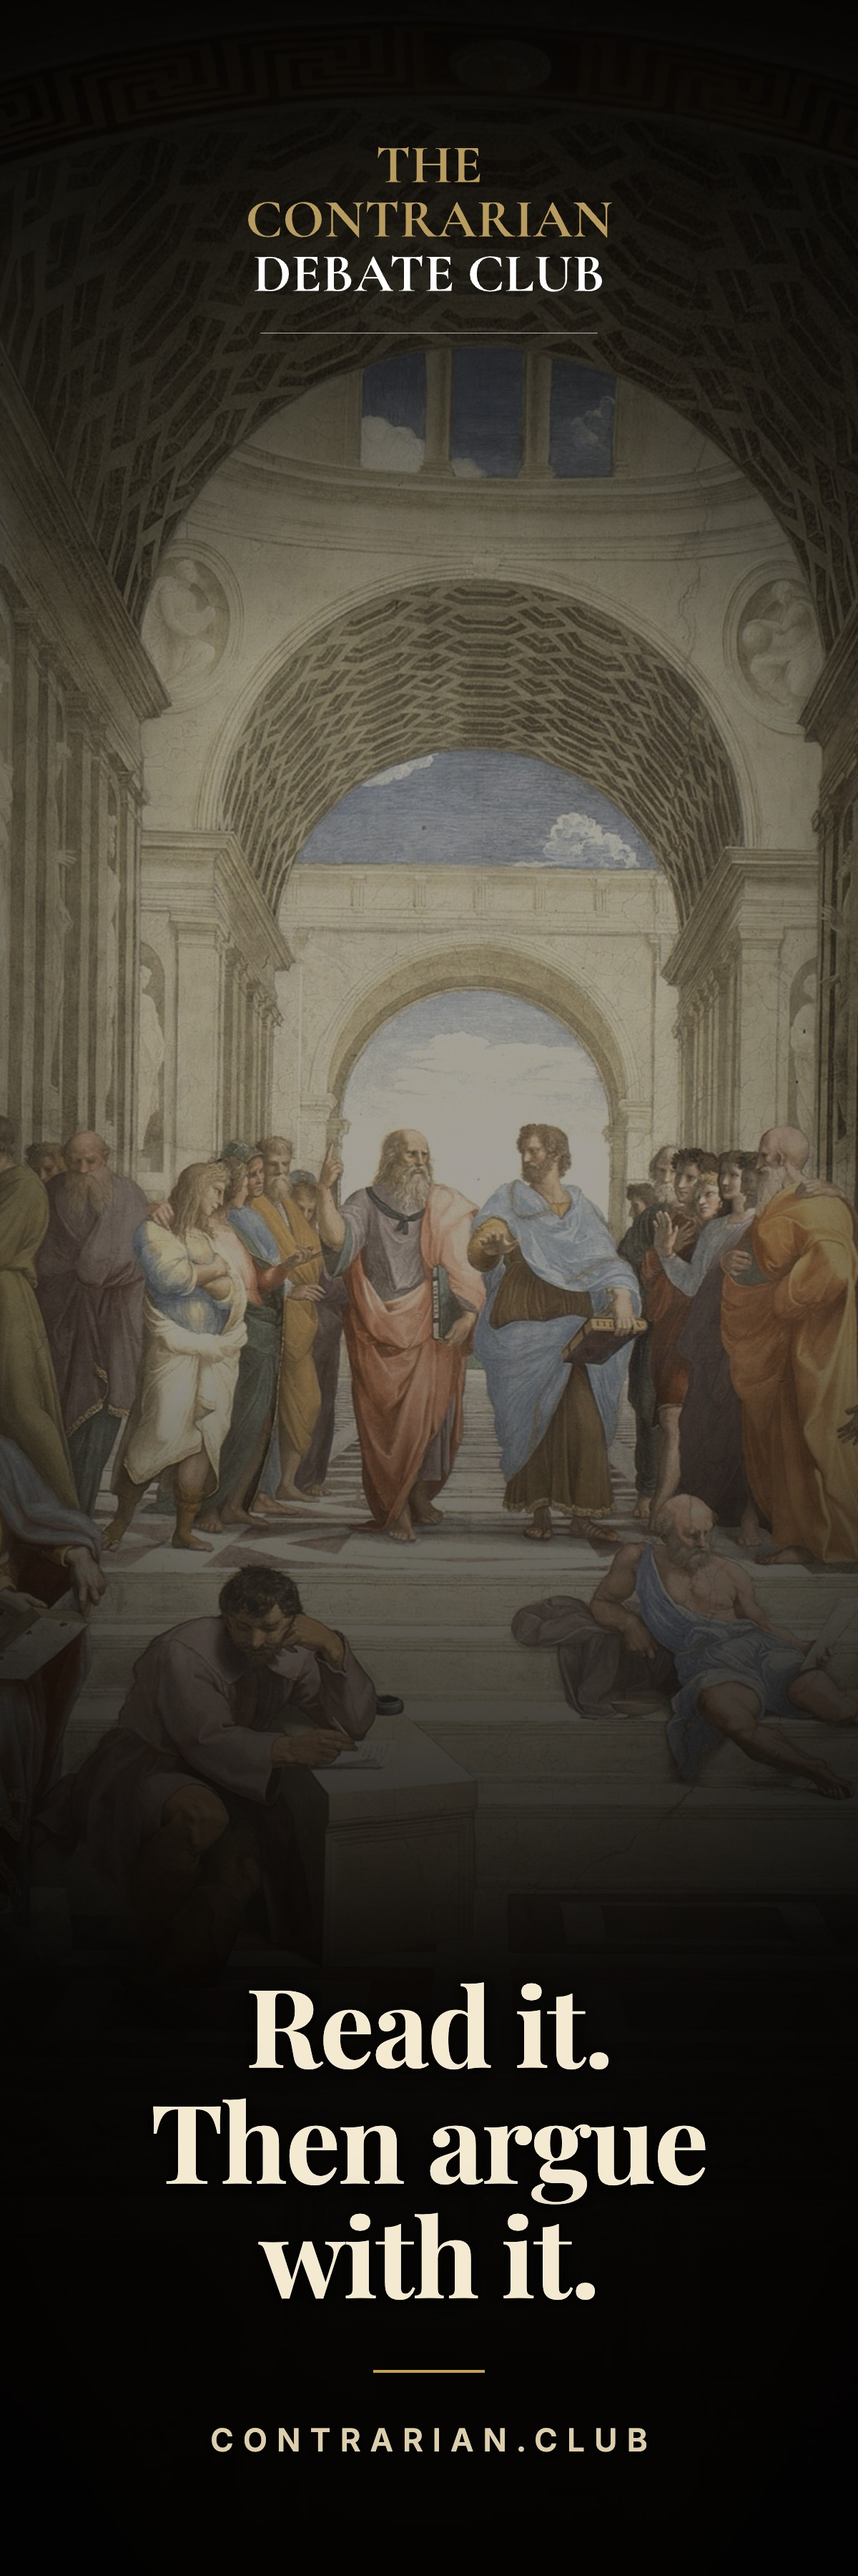
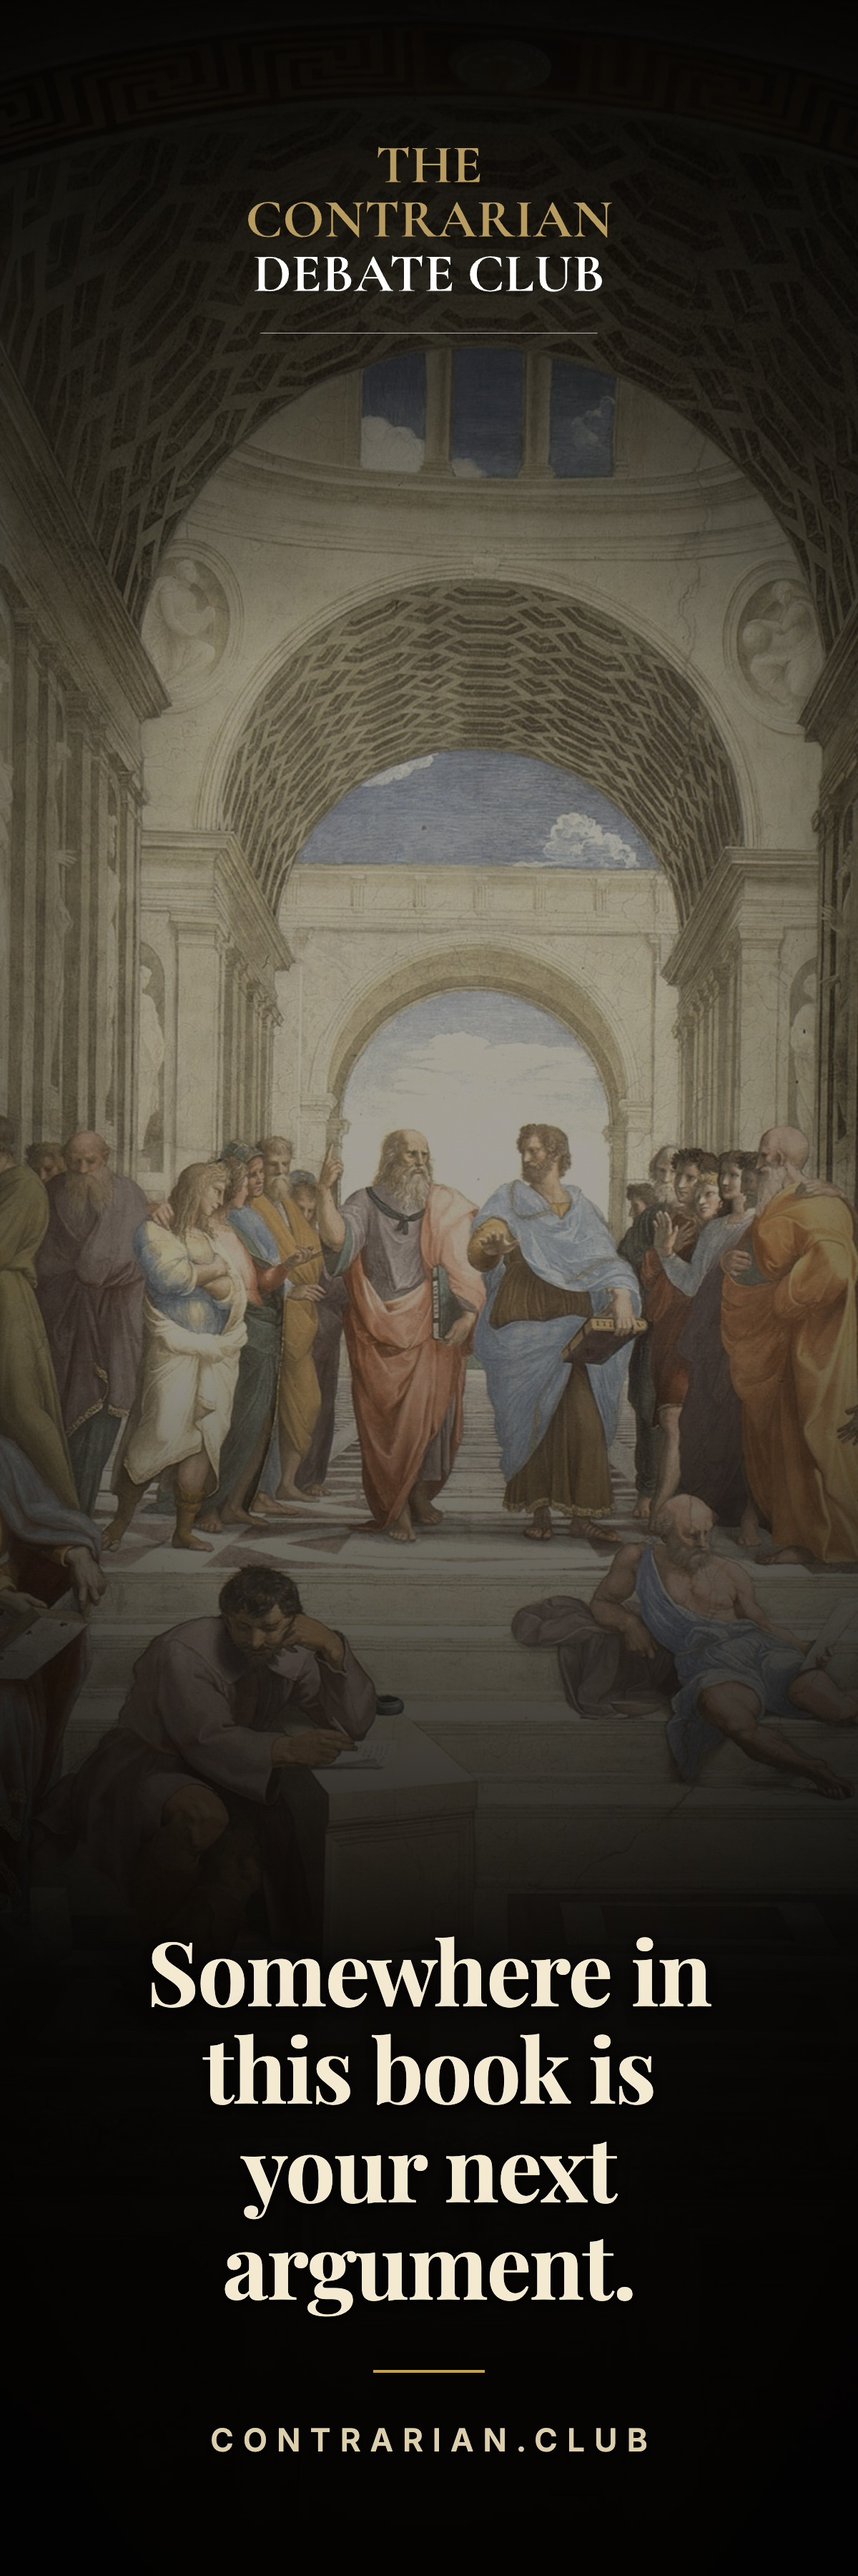
fix(posters): point the column bookmark's line at the book in hand

Changed region(s): [[0.1542, 0.7467, 0.8325, 0.9022]]

diff --git a/posters/works/2026-08-22-bookmark/slides.tsx b/posters/works/2026-08-22-bookmark/slides.tsx
@@ -107,7 +107,7 @@ const ADDRESS = "contrarian.club";
 // from across a table.
 // ---------------------------------------------------------------------------
 
-export function Column({ art }: { art: Art }) {
+export function Column({ art, line }: { art: Art; line: ReactNode }) {
   return (
     <div className="bm-sheet">
       <img className="bm-art bm-art--fresco" src={art.src} alt="" style={{ objectPosition: art.position }} />
@@ -123,13 +123,9 @@ export function Column({ art }: { art: Art }) {
 
         <h1
           className="hero"
-          style={{ fontSize: 76, lineHeight: 1.06, textAlign: "center", margin: 0 }}
+          style={{ fontSize: 62, lineHeight: 1.1, textAlign: "center", margin: 0 }}
         >
-          Read it.
-          <br />
-          Then argue
-          <br />
-          with it.
+          {line}
         </h1>
 
         <div style={{ height: 40 }} />

diff --git a/posters/works/2026-08-22-bookmark/spec.tsx b/posters/works/2026-08-22-bookmark/spec.tsx
@@ -23,7 +23,22 @@ const work: WorkSpec = {
     {
       label: "1. The Column",
       hasImage: true,
-      render: () => <Column art={{ src: athens, position: "center 44%" }} />,
+      render: () => (
+        <Column
+          art={{ src: athens, position: "center 44%" }}
+          line={
+            <>
+              Somewhere in
+              <br />
+              this book is
+              <br />
+              your next
+              <br />
+              argument.
+            </>
+          }
+        />
+      ),
     },
     {
       label: "2. The Plate",
